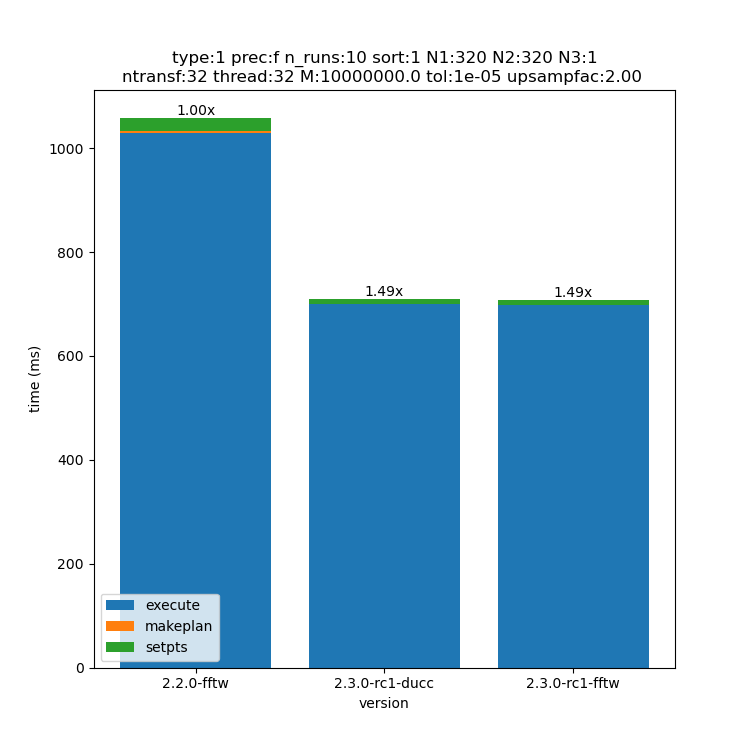
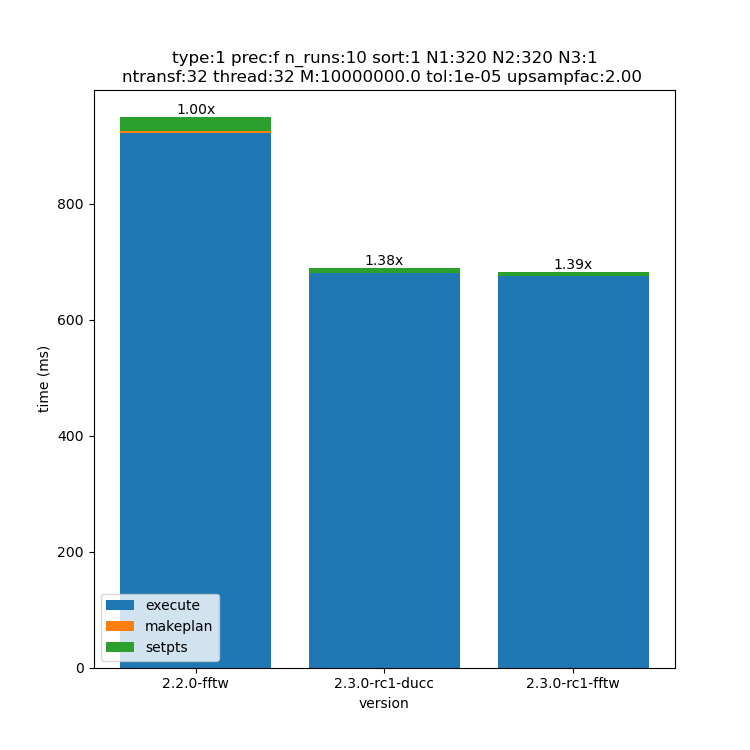
updated perftests, using min, update performance page

diff --git a/perftest/bench.py b/perftest/bench.py
@@ -34,6 +34,7 @@ def build_args(args):
 # clone the repository
 run_command('git', ['clone', 'https://github.com/flatironinstitute/finufft.git'])
 
+
 def get_cpu_temperature():
     try:
         # Run the sensors command
@@ -47,6 +48,7 @@ def get_cpu_temperature():
     except subprocess.CalledProcessError as e:
         print('Error executing sensors command:', e)
         return None
+
 
 all_data = pd.DataFrame()
 
@@ -80,7 +82,7 @@ class Params:
 
 thread_num = int(os.cpu_count())
 
-versions = ['v2.3.0-rc1', 'v2.2.0']
+versions = ['v2.2.0', 'v2.3.0-rc1']
 fft_lib = ['fftw', 'ducc']
 upsamp = ['1.25', '2.00']
 transform = ['1', '2', '3']
@@ -88,10 +90,10 @@ transform = ['1', '2', '3']
 ParamList = [
     Params('f', 1e4, 1, 1, 1, 1, 1e7, 1e-4),
     Params('d', 1e4, 1, 1, 1, 1, 1e7, 1e-9),
-    Params('f', 320, 320, 1, 1, 1, 1E7, 1E-5),
-    Params('d', 320, 320, 1, 1, 1, 1E7, 1E-9),
-    Params('f', 320, 320, 1, thread_num, thread_num, 1E7, 1E-5),
-    Params('f', 192, 192, 128, 1, thread_num, 1E7, 1E-5),
+    Params('f', 320, 320, 1, 1, 1, 1e7, 1e-5),
+    Params('d', 320, 320, 1, 1, 1, 1e7, 1e-9),
+    Params('f', 320, 320, 1, thread_num, thread_num, 1e7, 1e-5),
+    Params('d', 192, 192, 128, 1, thread_num, 1e7, 1e-7),
 ]
 
 
@@ -148,13 +150,15 @@ for version in versions:
         run_command('git', ['-C', 'finufft', 'checkout', version])
         # checkout folder perftest from master branch
         run_command('git', ['-C', 'finufft', 'checkout', 'origin/master', '--', 'perftest'])
+        # run_command('rm', ['-rf', 'build'])
         if fft == 'ducc':
             run_command('cmake',
                         ['-S', 'finufft', '-B', 'build', '-DCMAKE_BUILD_TYPE=Release', '-DFINUFFT_BUILD_TESTS=ON',
                          '-DFINUFFT_USE_DUCC0=ON'])
         else:
             run_command('cmake',
-                        ['-S', 'finufft', '-B', 'build', '-DCMAKE_BUILD_TYPE=Release', '-DFINUFFT_BUILD_TESTS=ON'])
+                        ['-S', 'finufft', '-B', 'build', '-DCMAKE_BUILD_TYPE=Release', '-DFINUFFT_BUILD_TESTS=ON',
+                         '-DFINUFFT_FFTW_LIBRARIES=DOWNLOAD'])
         run_command('cmake', ['--build', 'build', '-j', str(os.cpu_count()), '--target', 'perftest'])
         for param in ParamList:
             for key, value in param.__dict__.items():
@@ -186,6 +190,13 @@ for version in versions:
                     all_data = pd.concat((all_data, dt), ignore_index=True)
                     print(dt)
 
+# Replace the amortized event in all_data
+all_data.loc[all_data['event'] == 'amortized', 'min(ms)'] = (
+        all_data[all_data['event'] == 'makeplan']['min(ms)'].values
+        + all_data[all_data['event'] == 'setpts']['min(ms)'].values
+        + all_data[all_data['event'] == 'execute']['min(ms)'].values
+)
+
 print(all_data)
 all_data.to_csv('all_data.csv')
 for param in ParamList:
@@ -199,7 +210,6 @@ for param in ParamList:
             # select data for this specific upsampling factor, type and parameters
             for key, value in args.items():
                 this_data = this_data[this_data[key[2:]] == value]
-
             print(this_data)
             name = f'{int(param.N1)}x{int(param.N2)}x{int(param.N3)}-type-{type}-upsamp{upsampfac}-prec{param.prec}-thread{int(param.thread)}'
             # select the baseline data

diff --git a/perftest/perftest.cpp b/perftest/perftest.cpp
@@ -242,15 +242,14 @@ template<typename T> void run_test(test_options_t &test_opts) {
   Timer makeplan_timer, setpts_timer, execute_timer, amortized_timer;
   amortized_timer.start();
 
+  T *x_p = dim >= 1 ? x.data() : nullptr;
+  T *y_p = dim >= 2 ? y.data() : nullptr;
+  T *z_p = dim == 3 ? z.data() : nullptr;
+  T *s_p = type == 3 && dim >= 1 ? s.data() : nullptr;
+  T *t_p = type == 3 && dim >= 2 ? t.data() : nullptr;
+  T *u_p = type == 3 && dim == 3 ? u.data() : nullptr;
   if constexpr (std::is_same_v<T, double>) {
-    T *x_p = dim >= 1 ? x.data() : nullptr;
-    T *y_p = dim >= 2 ? y.data() : nullptr;
-    T *z_p = dim == 3 ? z.data() : nullptr;
-    T *s_p = type == 3 && dim >= 1 ? s.data() : nullptr;
-    T *t_p = type == 3 && dim >= 2 ? t.data() : nullptr;
-    T *u_p = type == 3 && dim == 3 ? u.data() : nullptr;
     finufft_plan_s *plan{nullptr};
-
     timeit(finufft_makeplan, makeplan_timer, test_opts.type, dim, test_opts.N, iflag,
            ntransf, test_opts.tol, &plan, &opts);
     for (int i = 0; i < test_opts.n_runs; ++i) {
@@ -261,14 +260,7 @@ template<typename T> void run_test(test_options_t &test_opts) {
   }
 
   if constexpr (std::is_same_v<T, float>) {
-    T *x_p = dim >= 1 ? x.data() : nullptr;
-    T *y_p = dim >= 2 ? y.data() : nullptr;
-    T *z_p = dim == 3 ? z.data() : nullptr;
-    T *s_p = type == 3 && dim >= 1 ? s.data() : nullptr;
-    T *t_p = type == 3 && dim >= 2 ? t.data() : nullptr;
-    T *u_p = type == 3 && dim == 3 ? u.data() : nullptr;
     finufftf_plan_s *plan{nullptr};
-
     timeit(finufftf_makeplan, makeplan_timer, test_opts.type, dim, test_opts.N, iflag,
            ntransf, test_opts.tol, &plan, &opts);
     for (int i = 0; i < test_opts.n_runs; ++i) {
@@ -276,7 +268,6 @@ template<typename T> void run_test(test_options_t &test_opts) {
       timeit(finufftf_execute, execute_timer, plan, c.data(), fk.data());
     }
     finufftf_destroy(plan);
-    plan = nullptr;
   }
   amortized_timer.stop();
 

diff --git a/docs/performance.rst b/docs/performance.rst
@@ -109,15 +109,15 @@ Type 3
 
 Type 1
 ~~~~~~~~~~~~~~~~~~~~~~~~~~~~~~~~~~~~~~~~~~~~~
-.. image:: pics/192x192x128-type-1-upsamp1.25-precf-thread32.png
-.. image:: pics/192x192x128-type-1-upsamp2.00-precf-thread32.png
+.. image:: pics/192x192x128-type-1-upsamp1.25-precd-thread32.png
+.. image:: pics/192x192x128-type-1-upsamp2.00-precd-thread32.png
 
 Type 2
 ~~~~~~~~~~~~~~~~~~~~~~~~~~~~~~~~~~~~~~~~~~~
-.. image:: pics/192x192x128-type-2-upsamp1.25-precf-thread32.png
-.. image:: pics/192x192x128-type-2-upsamp2.00-precf-thread32.png
+.. image:: pics/192x192x128-type-2-upsamp1.25-precd-thread32.png
+.. image:: pics/192x192x128-type-2-upsamp2.00-precd-thread32.png
 
 Type 3
 ~~~~~~~~~~~~~~~~~~~~~~~~~~~~~~~~~~~~~~~~~~~
-.. image:: pics/192x192x128-type-3-upsamp1.25-precf-thread32.png
-.. image:: pics/192x192x128-type-3-upsamp2.00-precf-thread32.png
+.. image:: pics/192x192x128-type-3-upsamp1.25-precd-thread32.png
+.. image:: pics/192x192x128-type-3-upsamp2.00-precd-thread32.png
